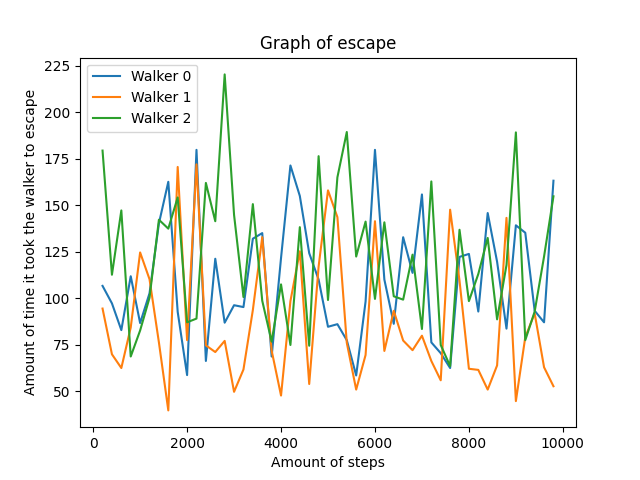
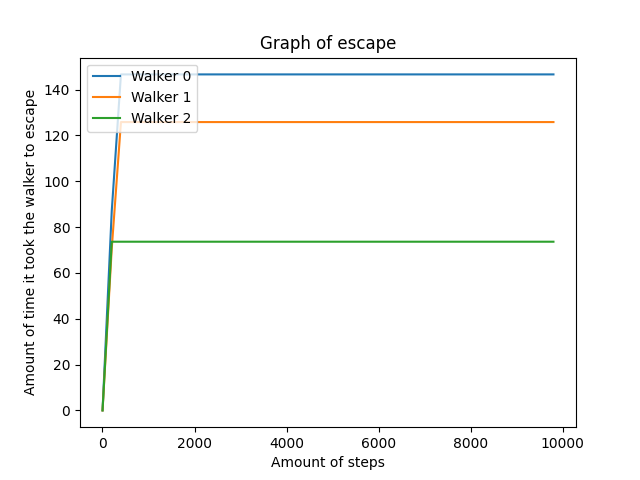
effiency

diff --git a/Code/simulation.py b/Code/simulation.py
@@ -128,7 +128,7 @@ class Simulation:
         """
         return self.__location_log
 
-    def run_simulation(self,n: int, max_depth: int = 10**3) -> dict:
+    def run_simulation(self,n: int, steps:int, max_depth: int = 10**3) -> dict:
         """
         runs a single simulation and returns a dictionary where we have for each walker:
         {
@@ -151,35 +151,41 @@ class Simulation:
 
         # "Zero"s the variables
         stunt_double = deepcopy(self)
-        info_dict: dict[int, dict[str, object]] = {}
+        info_dict: dict[int,dict[int, dict[str, object]]] = {}
+        escape: dict[int, int|None] = {}
         for index, _ in enumerate(self.__walkers):
-            info_dict[index] = {"crosses": 0, "escape": None}
+            info_dict[index] = {1: {"escape": None}}
+            escape[index] = None
         step = 0
         # Runs through the steps, checking when ESCAPE_RAD is escaped
         while (step < max_depth + 1 and
-                None in [info_dict[index]["escape"] for index,_ in enumerate(self.__walkers)])\
+                None in [info_dict[index][max(info_dict[index].keys())]["escape"]\
+                          for index,_ in enumerate(self.__walkers)])\
               or step < n + 1:
             step = stunt_double.step()
             for index, _ in enumerate(self.__walkers):
                 if stunt_double.log[index][-1][0] ** 2 + \
-                      stunt_double.log[index][-1][1] ** 2 > ESCAPE_RAD ** 2 \
-                    and info_dict[index]["escape"] is None:
-                    info_dict[index]["escape"] = step
+                        stunt_double.log[index][-1][1] ** 2 > ESCAPE_RAD ** 2 \
+                        and escape[index] is None:
+                    escape[index] = step
+                if step in range(1, n+1, steps):
+                    info_dict[index][step] = {"escape": escape[index]}
 
         # Runs through the locations the simulation passed through and gets the desired answers
         for index, _ in enumerate(self.__walkers):
             self.__location_log[index].append(self.__walkers[index].location)
             locations = list(stunt_double.log[index][:n+1])
-            info_dict[index]["distance_0"] = \
-                (locations[-1][0] ** 2 + locations[-1][1] ** 2) ** (1/2)
-            x_values = [x[0] for x in locations]
-            info_dict[index]["distance_axis"] = abs(locations[-1][0])
-            info_dict[index]["crosses"] = helper.passes_0(x_values)
-            info_dict[index]["location_list"] = locations
+            for i in range(1, n + 1, steps):
+                info_dict[index][i]["distance_0"] = \
+                    (locations[:i][-1][0] ** 2 + locations[:i][-1][1] ** 2) ** (1/2)
+                x_values = [x[0] for x in locations[:i]]
+                info_dict[index][i]["distance_axis"] = abs(locations[:i][-1][0])
+                info_dict[index][i]["crosses"] = helper.passes_0(x_values)
+                info_dict[index][i]["location_list"] = locations[:i]
 
         return info_dict
 
-    def simulation_average(self, iterations: int, n: int, max_depth: int) -> dict:
+    def simulation_average(self, iterations: int, n: int, step: int, max_depth: int) -> dict:
         """
         runs multiple simulations and saves a json with their average outcome for:
         {
@@ -205,47 +211,56 @@ class Simulation:
         if max_depth < n:
             raise ValueError("The max depth of the simulation cannot be less than the desired one")
         # Prepares dictionaries for the data
-        data_for_all_walkers: dict[int, dict[str, float]] = {}
-        distance_0: dict[int, list[float]] = {}
-        escape: dict[int, list[int]] = {}
-        distance_x_axis: dict[int, list[float]] = {}
-        distance_y_axis: dict[int, list[float]] = {}
-        crosses: dict[int, list[int]] = {}
+        data_for_all_walkers: dict[int,dict[int, dict[str, float]]] = {}
+        distance_0: dict[int, dict[int, list[float]]] = {}
+        escape: dict[int, dict[int, list[int]]] = {}
+        distance_x_axis: dict[int, dict[int, list[float]]] = {}
+        distance_y_axis: dict[int, dict[int, list[float]]] = {}
+        crosses: dict[int, dict[int, list[int]]] = {}
 
         # "Zero"s the values for each walker
         for index, _ in enumerate(self.__walkers):
-            distance_0[index] =[]
-            escape[index] = []
-            distance_x_axis[index] = []
-            distance_y_axis[index] = []
-            crosses[index] = []
+            distance_0[index] = {}
+            escape[index] = {}
+            distance_x_axis[index] = {}
+            distance_y_axis[index] = {}
+            crosses[index] = {}
+            for i in range(1, n + 1, step):
+                distance_0[index][i] = []
+                escape[index][i] = []
+                distance_x_axis[index][i] = []
+                distance_y_axis[index][i] = []
+                crosses[index][i] = []
 
         # Preforms the desired iterations of the simulation
         for _ in range(iterations):
-            simulation_results = self.run_simulation(n,max_depth)
+            simulation_results = self.run_simulation(n,step,max_depth)
             for index, _ in enumerate(self.__walkers):
-                distance_0[index].append(simulation_results[index]["distance_0"])
-                escape[index].append(simulation_results[index]["escape"])
-                distance_y_axis[index].append(simulation_results[index]["distance_axis"])
-                crosses[index].append(simulation_results[index]["crosses"])
+                for i in range(1, n + 1, step):
+                    distance_0[index][i].append(simulation_results[index][i]["distance_0"])
+                    escape[index][i].append(simulation_results[index][i]["escape"])
+                    distance_y_axis[index][i].append(simulation_results[index][i]["distance_axis"])
+                    crosses[index][i].append(simulation_results[index][i]["crosses"])
 
         # Compresses the data to averages for each walker
         for index, _ in enumerate(self.__walkers):
-            dict_to_save = {
-                            "distance_0": sum(distance_0[index])/iterations,
-                            "escape": sum(number for number in escape[index]\
-                                 if number is not None)/
-                            iterations,
-                            "distance_axis": sum(distance_y_axis[index])/iterations,
-                            "crosses": sum(crosses[index])/iterations
-                            }
-            data_for_all_walkers[index] = dict_to_save
+            data_for_all_walkers[index] = {}
+            for i in range(1, n + 1, step):
+                dict_to_save = {
+                                "distance_0": sum(distance_0[index][i])/iterations,
+                                "escape": sum(number for number in escape[index][i]\
+                                    if number is not None)/
+                                iterations,
+                                "distance_axis": sum(distance_y_axis[index][i])/iterations,
+                                "crosses": sum(crosses[index][i])/iterations
+                                }
+                data_for_all_walkers[index][i] = dict_to_save
 
         # Returns the data constructed
         return data_for_all_walkers
 
     def graph_simulation(self, iterations: int, n: int,
-                          max_depth: int, jump: int, file_name: str) -> None:
+                          max_depth: int, step: int, file_name: str) -> None:
         """
         Perform a graph simulation.
 
@@ -253,16 +268,14 @@ class Simulation:
         - iterations (int): The number of iterations to perform.
         - n (int): The maximum value for the range.
         - max_depth (int): The maximum depth for the simulation.
-        - jump (int): The step size for the range.
+        - step (int): The step size for the range.
         - file_name (str): The name of the file to save the graph.
 
         Returns:
         None
         """
 
-        data_for_graph = {}
-        for index in range(jump, n, jump):
-            data_for_graph[index] = self.simulation_average(iterations, index, max_depth)
+        data_for_graph = self.simulation_average(iterations, n, step, max_depth)
         helper.save_to_json(data_for_graph, f"{file_name}_results.json")
         gr.show_walker_graph(data_for_graph, file_name)
 
@@ -275,8 +288,8 @@ class Simulation:
                             be added automaticaly. an index discerning which walker is 
                             shown will be added defaults to 'walkerplot'
         """
-        simulation_results = self.run_simulation(n,n)
-        locations_dict = {item[0]: item[1]["location_list"]
+        simulation_results = self.run_simulation(n,n-1,n)
+        locations_dict = {item[0]: item[1][n]["location_list"]
                            for item in simulation_results.items()}
         barriers = [barrier.points for barrier in self.__barriers]
         portals = [(portal.center, portal.radius, portal.endpoint) \
@@ -320,7 +333,7 @@ def check_data(data: dict) -> bool:
                 if data["Simulation"]["type"] == "graph":
                     int(data["Simulation"]["iterations"])
                     int(data["Simulation"]["max_depth"])
-                    int(data["Simulation"]["jumps"])
+                    int(data["Simulation"]["steps"])
 
                 if "gravity" in data["Simulation"]:
                     if isinstance(data["Simulation"]["gravity"],int):
@@ -336,7 +349,7 @@ def check_data(data: dict) -> bool:
                 if os.path.exists(directory):
                     return True
             except Exception as e:
-                print(e)
+                print("Exception", e)
     return False
 
 def run_from_json(filename: str|None = None) -> Tuple[dict, str]:
@@ -381,9 +394,9 @@ def run_and_plot(data: dict, filename: str) -> str:
         iterations = data["Simulation"]["iterations"]
         n = data["Simulation"]["n"]
         max_depth = data["Simulation"]["max_depth"]
-        jump = data["Simulation"]["jumps"]
+        step = data["Simulation"]["steps"]
         file_name = data["Simulation"]["filename"]
-        simulation.graph_simulation(iterations, n, max_depth, jump, file_name)
+        simulation.graph_simulation(iterations, n, max_depth, step, file_name)
 
     return filename.removesuffix("_simulation.json")
 

diff --git a/tests/test_simulation.py b/tests/test_simulation.py
@@ -99,27 +99,27 @@ class TestSimulation(unittest.TestCase):
     def test_simulation_errors(self):
         simulation = Simulation()
         try:
-            simulation.run_simulation(0,10)
+            simulation.run_simulation(0,2,10)
             raise AssertionError
         except ValueError:
             pass
         try:
-            simulation.run_simulation(10,5)
+            simulation.run_simulation(10,1,5)
             raise AssertionError
         except ValueError:
             pass
         try:
-            simulation.simulation_average(-1,10,5)
+            simulation.simulation_average(-1,10,1,5)
             raise AssertionError
         except ValueError:
             pass
         try:
-            simulation.simulation_average(1,0,5)
+            simulation.simulation_average(1,0,1,5)
             raise AssertionError
         except ValueError:
             pass
         try:
-            simulation.simulation_average(1,10**5,10**2)
+            simulation.simulation_average(1,10**5,2,10**2)
             raise AssertionError
         except ValueError:
             pass
@@ -139,7 +139,7 @@ class TestSimulation(unittest.TestCase):
         for key in Walker.move_dict():
             walker = Walker(key)
             simulation.add_walker(walker)
-        result = simulation.run_simulation(10)
+        result = simulation.run_simulation(10,2)
         self.assertIsInstance(result, dict)
         self.assertEqual(len(result), len(Walker.move_dict()))
 
@@ -148,7 +148,7 @@ class TestSimulation(unittest.TestCase):
         for key in Walker.move_dict():
             walker = Walker(key)
             simulation.add_walker(walker)
-        simulation.simulation_average(10, 100, 1000)
+        simulation.simulation_average(10, 100,1, 1000)
         # Nothing to assert
 
     def test_graph_simulation(self):

diff --git a/Code/walker_gui.py b/Code/walker_gui.py
@@ -517,7 +517,7 @@ class SimulationGUI:
         This method clears the frame, creates a new frame for simulation input, and adds buttons
         and input fields for selecting simulation options. The user can toggle between plotting
         simulation and graphing simulation, and provide input values such as number of steps, number
-        of iterations, maximum depth, and jump interval.
+        of iterations, maximum depth, and step interval.
 
         The selected simulation options are stored in the `__simulation_data` dictionary and the
         selected directory path and simulation name are stored in the `__simulation_path`
@@ -575,7 +575,7 @@ data for different number of iterations)")
                 simulation_input_frame, def_values=[1000],
                 message="How many maximum steps do you wish to plot for?", width= 5)[0]
 
-            jumps=self.single_int_user_input(self,
+            steps=self.single_int_user_input(self,
                 simulation_input_frame, def_values=[20],
                 message="How many every how many steps do you want a point?", width= 5)[0]
 
@@ -589,7 +589,7 @@ data for different number of iterations)")
                                         "iterations": iterations,
                                         "max_depth": max_depth,
                                         "n": n_iterations,
-                                        "jumps": jumps}
+                                        "steps": steps}
 
 
         gravity = tk.StringVar(value=list(self.__gravity_dictionary.keys())[0])

diff --git a/Code/graph.py b/Code/graph.py
@@ -132,9 +132,9 @@ def show_walker_graph(data, file_to_save: str = f"{DESTINATION_PATH}_graph") -> 
     :param file_to_save: the desired filepath in which to save the path taken by the walker
     :param color: the color to trace the course
     """
-    x = [int(k) for k in data]
-    walkers = list(data[x[0]].keys())
-    for index, graph_type in enumerate(data[x[0]][walkers[0]]):
+    x = [int(k) for k in data[0]]
+    walkers = list(data.keys())
+    for index, graph_type in enumerate(data[walkers[0]][x[0]]):
         fig = plt.figure()
         plt.xlabel("Amount of steps")
         if graph_type == "distance_axis":
@@ -147,8 +147,8 @@ def show_walker_graph(data, file_to_save: str = f"{DESTINATION_PATH}_graph") -> 
             y_label = "Distance from the origin"
         plt.ylabel(y_label)
         plt.title(f"Graph of {graph_type}")
-        for walker in data[x[0]]:
-            to_plot = [data[i][walker][graph_type] for i in x]
+        for walker in data:
+            to_plot = [data[walker][i][graph_type] for i in x]
             plt.plot(x, to_plot, label=f"Walker {walker}")
         plt.legend(loc="upper left")
         # fig.show()
